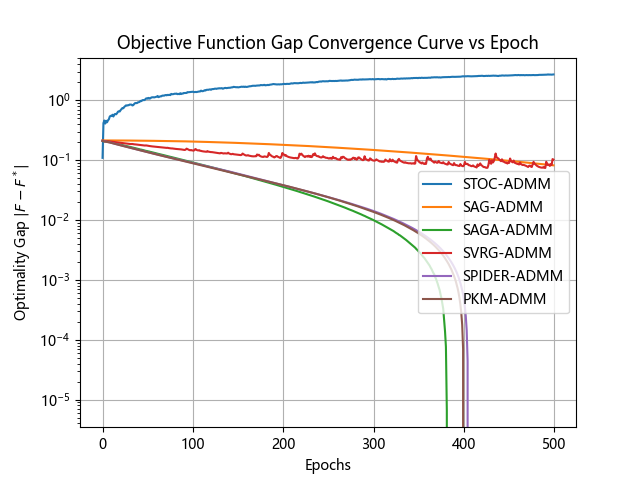
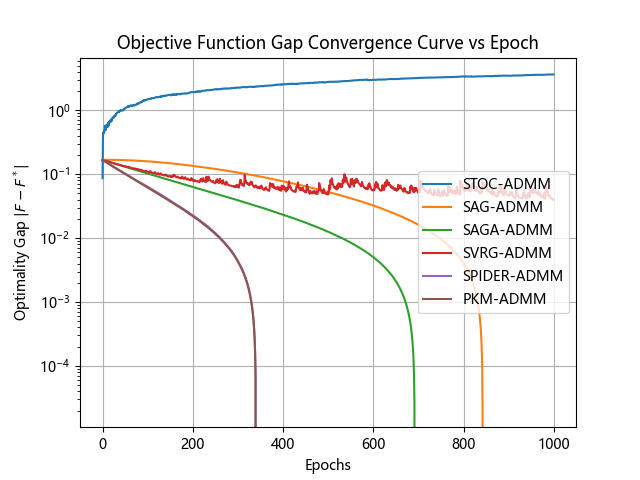
修复了SAGA-ADMM

diff --git a/GGLR_ADMM_Experiments/algorithms/saga_admm.py b/GGLR_ADMM_Experiments/algorithms/saga_admm.py
@@ -1,68 +1,56 @@
 import numpy as np
 import time
-from utils.metrics import *
 from scipy.special import expit
+from utils.metrics import *
 
 def saga_admm(A, b, D, max_iter=1000, p_star=0.0,
-              mu1 = 1e-3, mu2 = 1e-2, rho = 1.0,
+              mu1=1e-3, mu2=1e-2, rho=1.0,
               step_size=0.01, batch_size=32):
-    """
-    SAGA-ADMM求解GGLR问题，添加步长和batch_size参数
-    :param A: 样本特征矩阵 (n_samples, n_features)
-    :param b: 标签向量 (n_samples,)
-    :param D: 图关联矩阵 (n_edges, n_features)
-    :param mu1: L2正则化系数
-    :param mu2: L1正则化系数
-    :param rho: ADMM惩罚系数
-    :param max_iter: 最大迭代次数
-    :param step_size: 梯度下降步长
-    :param p_star: GGLR问题的真实最优值
-    :param batch_size: 随机采样的批次大小，默认32
-    :return: 收敛指标（gap, primal, dual）
-    """
     n, d = A.shape
-    batch_size = min(batch_size, n)  # 确保batch_size不超过样本数
+    batch_size = min(batch_size, n)
+
     x = np.zeros(d)
     y = np.zeros(D.shape[0])
     lam_u = np.zeros(D.shape[0])
-    grad_table = np.zeros((n, d))  # 存储每个样本的历史梯度
-    # 初始全梯度（向量操作）
-    z_full = b[:, None] * A @ x  # (n, 1)
-    expit_z = expit(-z_full).reshape(-1, 1)  # 果z_full是样本维度 (500,) → 重塑为 (500, 1)
-    avg_grad = np.mean(-b[:, None] * A * expit_z, axis=0)  # (d,)
-    gaps, primals, duals = [], [], []
-    time_list = []
+
+    # ---------------- 修正 1 & 2：正确的初始化 ----------------
+    z_full = b * (A @ x)  # (n,) 修复了维度爆炸 Bug
+    expit_z = expit(-z_full).reshape(-1, 1)  # (n, 1)
+
+    # 严格保持 SAGA 的不变量：让 grad_table 的均值等于 avg_grad
+    grad_table = -b[:, None] * A * expit_z  # (n, d) 存储所有样本的初始梯度
+    avg_grad = np.mean(grad_table, axis=0)  # (d,)
+
+    gaps, primals, duals, time_list = [], [], [], []
     start_time = time.time()
 
     for k in range(max_iter):
-        # 随机采样batch_size个样本
+        # 1. 随机采样
         indices = np.random.choice(n, size=batch_size, replace=False)
 
-        # 批量计算当前梯度，向量操作
+        # 2. 计算当前 batch 真实梯度
         z = b[indices] * (A[indices] @ x)  # (batch_size,)
         current_grad_batch = -b[indices, None] * A[indices] * expit(-z[:, None])  # (batch_size, d)
-        current_grad_mean = np.mean(current_grad_batch, axis=0)  # (d,)
 
-        # SAGA方差缩减梯度计算
+        # 3. 构造 SAGA 无偏估计器 (这部分你的数学推导完全正确！)
         saga_grad_batch = current_grad_batch - grad_table[indices] + avg_grad[None, :]  # (batch_size, d)
         saga_grad_mean = np.mean(saga_grad_batch, axis=0)  # (d,)
 
-        # 更新梯度表和平均梯度
-        for i, idx in enumerate(indices):
-            grad_old = grad_table[idx].copy()
-            grad_new = current_grad_batch[i]  # 直接用batch位置索引，正确对应样本
-            grad_table[idx] = grad_new
-            avg_grad = avg_grad - (grad_old - grad_new) / n  # 数学公式与原代码完全一致
+        # ---------------- 修正 3：向量化更新梯度表 ----------------
+        grad_old_batch = grad_table[indices]
+        grad_table[indices] = current_grad_batch
+        # 批量更新均值: avg_new = avg_old + sum(新梯度 - 老梯度) / n
+        avg_grad = avg_grad + np.sum(current_grad_batch - grad_old_batch, axis=0) / n
 
-        # y更新：软阈值操作
+        # 4. ADMM y 更新
         u = D @ x + lam_u
         y = np.sign(u) * np.maximum(np.abs(u) - mu2 / rho, 0)
 
-        # x更新：SAGA梯度下降
+        # 5. ADMM x 更新 (包含 L2 正则化)
         saga_est = saga_grad_mean + mu1 * x
         x = x - step_size * (saga_est + rho * D.T @ (D @ x - y + lam_u))
 
-        # 对偶变量更新
+        # 6. ADMM 对偶变量更新
         lam_u_prev = lam_u.copy()
         lam_u = lam_u + D @ x - y
 
@@ -74,8 +62,6 @@ def saga_admm(A, b, D, max_iter=1000, p_star=0.0,
         gaps.append(gap)
         primals.append(pr)
         duals.append(dr)
-
-        cum_time = time.time() - start_time
-        time_list.append(cum_time)
+        time_list.append(time.time() - start_time)
 
     return {"gap": gaps, "primal": primals, "dual": duals, "time": time_list}
